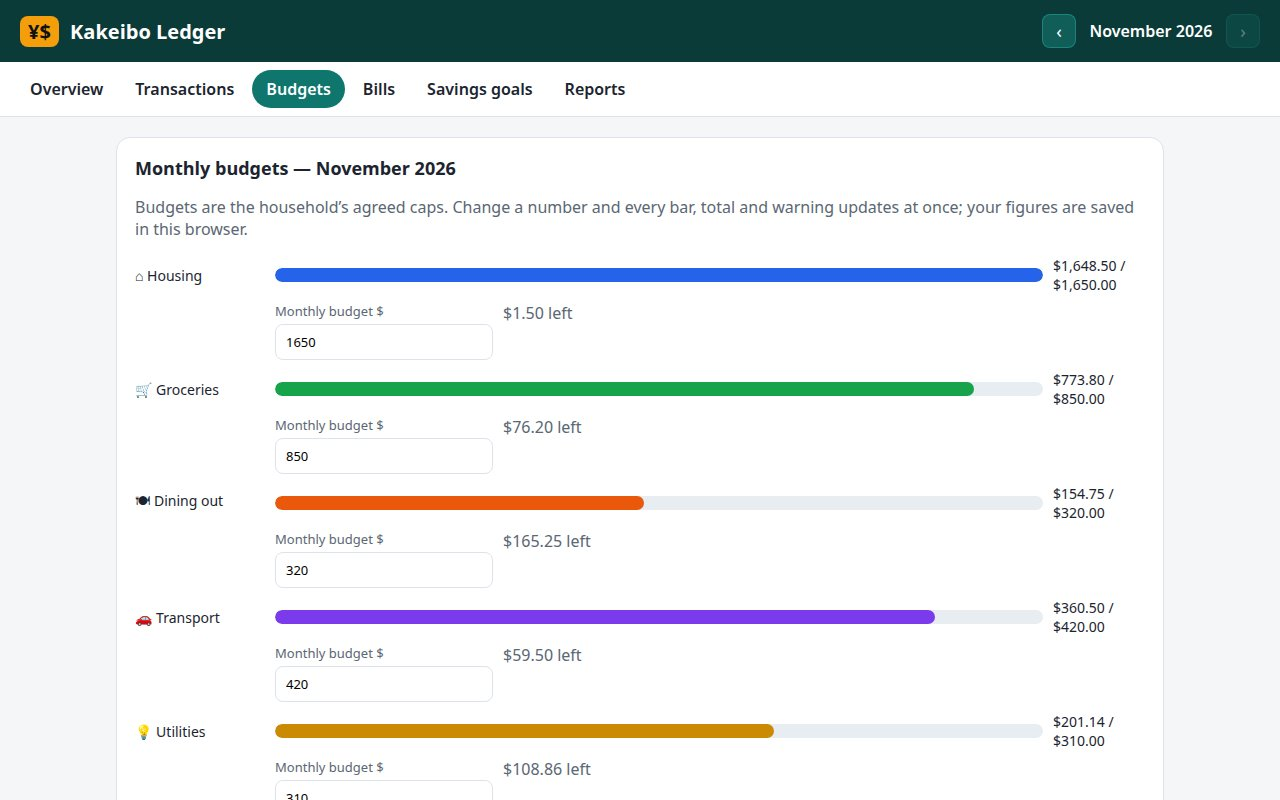
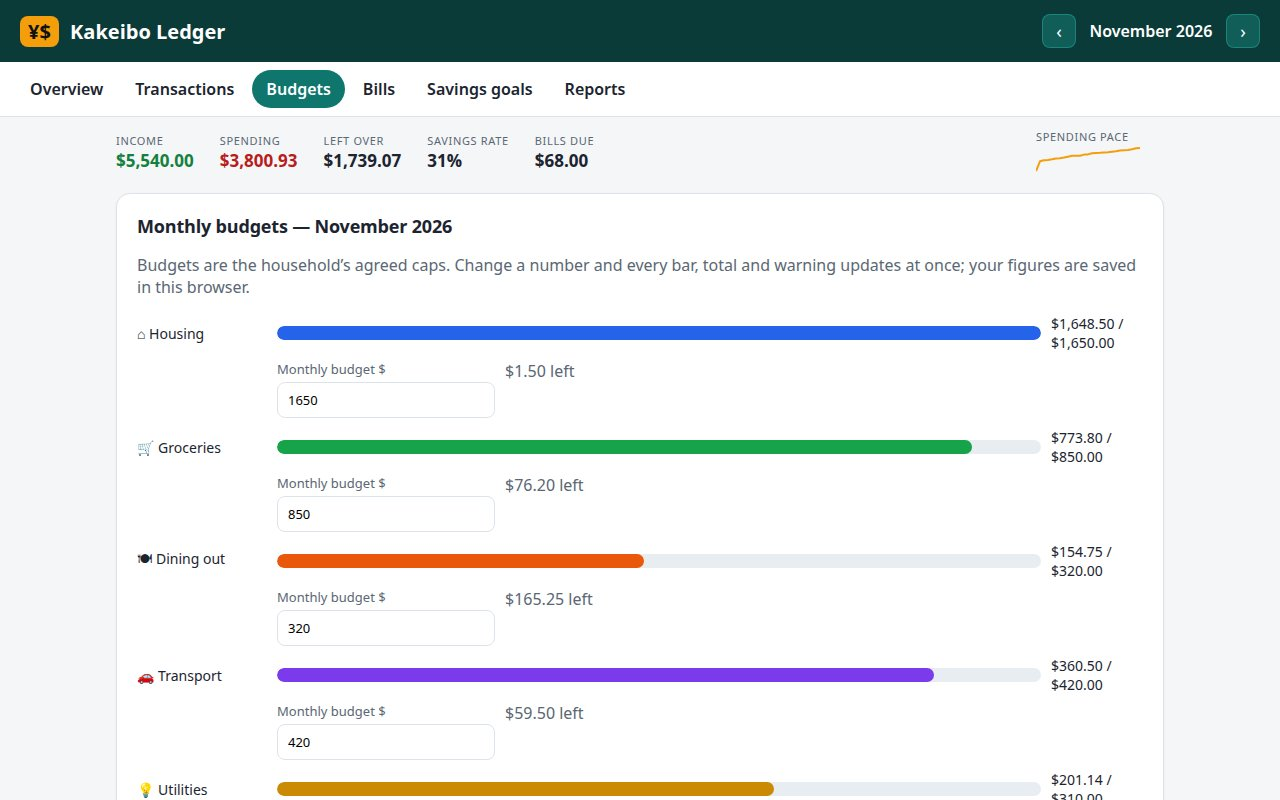
Strengthen Kakeibo Ledger: summary strip with spending-pace sparkline, labelled charts, month-end review panel, projected Dec 2026 / Jan 2027 months, per-month bill state, refreshed screenshots

diff --git a/app/app.js b/app/app.js
@@ -3,12 +3,37 @@
   "use strict";
   var H = window.HOUSEHOLD;
   var catById = {}; H.categories.forEach(function (c) { catById[c.id] = c; });
+  var recordedKeys = Object.keys(H.months).sort();
+  var lastRecorded = recordedKeys[recordedKeys.length - 1];
+  // Build the projected months from the standing monthly pattern, so the
+  // month switcher always has somewhere real to go: each projection is the
+  // recurring entries on their usual days, a weekly grocery run, and any
+  // one-off items the household already expects that month.
+  var projectedKeys = [];
+  function pad2(n) { return (n < 10 ? "0" : "") + n; }
+  function buildProjection(key) {
+    var rows = H.recurring.map(function (r) { return [key + "-" + pad2(r.day), r.description, r.category, r.amount]; });
+    [5, 12, 19, 26].forEach(function (d) { rows.push([key + "-" + pad2(d), "Groceries — GreenMart (weekly, projected)", "groceries", -172.00]); });
+    (H.projectionExtras[key] || []).forEach(function (x) { rows.push(x.slice()); });
+    rows.sort(function (a, b) { return a[0].localeCompare(b[0]); });
+    return rows;
+  }
+  ["2026-12", "2027-01"].forEach(function (key) { if (!H.months[key]) { H.months[key] = buildProjection(key); projectedKeys.push(key); } });
   var monthKeys = Object.keys(H.months).sort();
-  var state = { month: monthKeys[monthKeys.length - 1], added: {}, budgets: JSON.parse(JSON.stringify(H.budgets)), billsPaid: {}, goals: {}, chartMode: "bar", txQuery: "", txCat: "all", txType: "all", txSort: "date-desc" };
-  H.bills.forEach(function (b, i) { state.billsPaid[i] = b.paidNov; });
+  function isProjected(key) { return projectedKeys.indexOf(key) >= 0; }
+  var state = { month: lastRecorded, added: {}, budgets: JSON.parse(JSON.stringify(H.budgets)), billsPaid: {}, goals: {}, chartMode: "bar", txQuery: "", txCat: "all", txType: "all", txSort: "date-desc" };
+  // Bill status is kept per month: settled for the recorded past, the
+  // book's own flags for November, and still-to-pay for projected months.
+  function billPaid(month, i) {
+    var k = month + ":" + i;
+    if (Object.prototype.hasOwnProperty.call(state.billsPaid, k)) return state.billsPaid[k];
+    if (isProjected(month)) return false;
+    if (month === "2026-11") return H.bills[i].paidNov;
+    return true;
+  }
   H.goals.forEach(function (g) { state.goals[g.id] = g.saved; });
-  try { var saved = localStorage.getItem("kakeibo-ledger-v1"); if (saved) { var s = JSON.parse(saved); if (s.added) state.added = s.added; if (s.budgets) state.budgets = s.budgets; if (s.goals) state.goals = s.goals; } } catch (e) {}
-  function persist() { try { localStorage.setItem("kakeibo-ledger-v1", JSON.stringify({ added: state.added, budgets: state.budgets, goals: state.goals })); } catch (e) {} }
+  try { var saved = localStorage.getItem("kakeibo-ledger-v1"); if (saved) { var s = JSON.parse(saved); if (s.added) state.added = s.added; if (s.budgets) state.budgets = s.budgets; if (s.goals) state.goals = s.goals; if (s.billsPaid) state.billsPaid = s.billsPaid; } } catch (e) {}
+  function persist() { try { localStorage.setItem("kakeibo-ledger-v1", JSON.stringify({ added: state.added, budgets: state.budgets, goals: state.goals, billsPaid: state.billsPaid })); } catch (e) {} }
   function txs(month) { return (H.months[month] || []).concat(state.added[month] || []).map(function (t) { return [t[0], t[1], t[2], t[3]]; }); }
   function fmt(n) { var v = Math.abs(n).toFixed(2).replace(/\B(?=(\d{3})+(?!\d))/g, ","); return (n < 0 ? "-$" : "$") + v; }
   function monthName(key) { var names = ["January","February","March","April","May","June","July","August","September","October","November","December"]; var p = key.split("-"); return names[+p[1] - 1] + " " + p[0]; }
@@ -18,20 +43,44 @@
 
   function donutSVG(byCat, total) {
     var cats = Object.keys(byCat).sort(function (a, b) { return byCat[b] - byCat[a]; });
-    var r = 70, c = 2 * Math.PI * r, off = 0, parts = "";
-    cats.forEach(function (id) { var frac = byCat[id] / total; var len = frac * c; parts += '<circle cx="90" cy="90" r="' + r + '" fill="none" stroke="' + catById[id].color + '" stroke-width="26" stroke-dasharray="' + Math.max(len - 2, 0.5) + " " + (c - len) + '" stroke-dashoffset="' + (-off) + '" transform="rotate(-90 90 90)"><title>' + esc(catById[id].label) + ": " + fmt(byCat[id]) + "</title></circle>"; off += len; });
-    return '<svg viewBox="0 0 180 180" width="180" height="180" role="img" aria-label="Spending by category donut chart">' + parts + '<text x="90" y="86" text-anchor="middle" style="font-size:15px;font-weight:700;fill:#1c2430">' + fmt(total) + '</text><text x="90" y="104" text-anchor="middle">spent</text></svg>';
+    var r = 70, c = 2 * Math.PI * r, off = 0, parts = "", labels = "";
+    cats.forEach(function (id) {
+      var frac = byCat[id] / total; var len = frac * c;
+      parts += '<circle cx="90" cy="90" r="' + r + '" fill="none" stroke="' + catById[id].color + '" stroke-width="26" stroke-dasharray="' + Math.max(len - 2, 0.5) + " " + (c - len) + '" stroke-dashoffset="' + (-off) + '" transform="rotate(-90 90 90)"><title>' + esc(catById[id].label) + ": " + fmt(byCat[id]) + " (" + Math.round(frac * 100) + "%)</title></circle>";
+      // Slices wide enough get their percentage printed right on the ring.
+      if (frac >= 0.08) {
+        var ang = ((off + len / 2) / c) * 2 * Math.PI - Math.PI / 2;
+        var lx = 90 + r * Math.cos(ang), ly = 90 + r * Math.sin(ang);
+        labels += '<text x="' + lx.toFixed(1) + '" y="' + (ly + 4).toFixed(1) + '" text-anchor="middle" style="font-size:12px;font-weight:700;fill:#fff">' + Math.round(frac * 100) + "%</text>";
+      }
+      off += len;
+    });
+    return '<svg viewBox="0 0 180 180" width="190" height="190" role="img" aria-label="Spending by category donut chart">' + parts + labels + '<text x="90" y="86" text-anchor="middle" style="font-size:15px;font-weight:700;fill:#1c2430">' + fmt(total) + '</text><text x="90" y="104" text-anchor="middle">spent</text></svg>';
   }
+  function fmtShort(n) { return n >= 1000 ? "$" + (n / 1000).toFixed(1).replace(/\.0$/, "") + "k" : fmt(n); }
   function barsSVG() {
     var rows = monthKeys.map(function (k) { var t = totals(k); return { k: k, inc: t.inc, exp: t.exp }; });
     var max = Math.max.apply(null, rows.map(function (r) { return Math.max(r.inc, r.exp); }));
-    var w = 460, h = 190, bw = 46, gap = (w - 40) / rows.length;
+    var w = 460, h = 196, bw = 46, gap = (w - 40) / rows.length;
     var s = '<svg viewBox="0 0 ' + w + " " + h + '" style="width:100%;max-width:520px" role="img" aria-label="Income versus spending by month">';
+    [0.25, 0.5, 0.75, 1].forEach(function (f) { var y = 150 - 130 * f; s += '<line x1="26" x2="' + (w - 14) + '" y1="' + y + '" y2="' + y + '" stroke="#e8edf2" stroke-width="1"/><text x="22" y="' + (y + 3) + '" text-anchor="end" style="font-size:9px">' + fmtShort(max * f) + "</text>"; });
+    s += '<line x1="26" x2="' + (w - 14) + '" y1="150" y2="150" stroke="#cbd5e1" stroke-width="1"/>';
     rows.forEach(function (r, i) { var x = 30 + i * gap + gap / 2 - bw; var ih = (r.inc / max) * 130, eh = (r.exp / max) * 130;
-      s += '<rect x="' + x + '" y="' + (150 - ih) + '" width="' + (bw / 2 - 2) + '" height="' + ih + '" fill="#059669"><title>Income ' + fmt(r.inc) + "</title></rect>";
-      s += '<rect x="' + (x + bw / 2) + '" y="' + (150 - eh) + '" width="' + (bw / 2 - 2) + '" height="' + eh + '" fill="#dc2626"><title>Spending ' + fmt(r.exp) + "</title></rect>";
-      s += '<text x="' + (x + bw / 2 - 1) + '" y="168" text-anchor="middle">' + monthName(r.k).slice(0, 3) + " " + r.k.slice(2, 4) + "</text>"; });
+      s += '<rect x="' + x + '" y="' + (150 - ih) + '" width="' + (bw / 2 - 2) + '" height="' + ih + '" rx="2" fill="#059669"><title>Income ' + fmt(r.inc) + "</title></rect>";
+      s += '<rect x="' + (x + bw / 2) + '" y="' + (150 - eh) + '" width="' + (bw / 2 - 2) + '" height="' + eh + '" rx="2" fill="#dc2626"><title>Spending ' + fmt(r.exp) + "</title></rect>";
+      s += '<text x="' + (x + bw / 4 - 1) + '" y="' + (142 - ih) + '" text-anchor="middle" style="font-size:10px;font-weight:700;fill:#059669">' + fmtShort(r.inc) + "</text>";
+      s += '<text x="' + (x + bw * 0.75) + '" y="' + (142 - eh) + '" text-anchor="middle" style="font-size:10px;font-weight:700;fill:#dc2626">' + fmtShort(r.exp) + "</text>";
+      s += '<text x="' + (x + bw / 2 - 1) + '" y="168" text-anchor="middle">' + monthName(r.k).slice(0, 3) + " " + r.k.slice(2, 4) + (isProjected(r.k) ? " (proj.)" : "") + "</text>"; });
     return s + "</svg>";
+  }
+  // Cumulative spending across the days of a month, as a small sparkline
+  // for the summary strip: shows how fast the month's money is going out.
+  function sparkSVG(month) {
+    var days = {}, totalOut = 0;
+    txs(month).forEach(function (t) { if (t[3] < 0) { var d = +t[0].slice(8, 10); days[d] = (days[d] || 0) - t[3]; totalOut -= t[3]; } });
+    var max = totalOut || 1, cum = 0, pts = ["0,26"];
+    for (var d = 1; d <= 31; d++) { if (days[d]) { cum += days[d]; pts.push((d * 4) + "," + (26 - (cum / max) * 23).toFixed(1)); } }
+    return '<svg class="spark" viewBox="0 0 128 30" width="128" height="30" role="img" aria-label="Cumulative spending sparkline"><polyline points="' + pts.join(" ") + '" fill="none" stroke="#f59e0b" stroke-width="2" stroke-linejoin="round"/></svg>';
   }
 
   function viewOverview() {
@@ -42,14 +91,15 @@
     var recent = txs(state.month).slice().sort(function (a, b) { return b[0].localeCompare(a[0]); }).slice(0, 6);
     var legend = Object.keys(t.byCat).sort(function (a, b) { return t.byCat[b] - t.byCat[a]; }).map(function (id) { return '<span><i style="background:' + catById[id].color + '"></i>' + catById[id].label + " — " + fmt(t.byCat[id]) + " (" + Math.round(t.byCat[id] / t.exp * 100) + "%)</span>"; }).join("");
     var recentRows = recent.map(function (x) { return "<tr><td>" + x[0].slice(5) + "</td><td>" + esc(x[1]) + '</td><td>' + catById[x[2]].label + '</td><td class="num ' + (x[3] < 0 ? "neg" : "pos") + '">' + fmt(x[3]) + "</td></tr>"; }).join("");
-    return '<div class="cards">'
+    var banner = isProjected(state.month) ? '<div class="notice proj"><strong>' + monthName(state.month) + ' is a projection.</strong> It is built from the household\u2019s standing monthly pattern — rent, salaries, bills, the weekly grocery run — plus one-off items already expected. Mark bills paid on the Bills page as the month unfolds; the figures will firm up into the real book.</div>' : "";
+    return banner + '<div class="cards">'
       + '<div class="card"><h3>Income</h3><div class="big pos">' + fmt(t.inc) + '</div><div class="sub">' + txs(state.month).filter(function (x) { return x[3] >= 0; }).length + ' payments in</div></div>'
       + '<div class="card"><h3>Spending</h3><div class="big neg">' + fmt(t.exp) + '</div><div class="sub">' + diffTxt + '</div></div>'
       + '<div class="card"><h3>Left over</h3><div class="big">' + fmt(t.bal) + '</div><div class="sub">Savings rate ' + rate + '% of income</div></div>'
-      + '<div class="card"><h3>Bills still due</h3><div class="big">' + fmt(H.bills.filter(function (b, i) { return !state.billsPaid[i]; }).reduce(function (a, b) { return a + b.amount; }, 0)) + '</div><div class="sub"><a href="#/bills">See bills</a></div></div></div>'
+      + '<div class="card"><h3>Bills still due</h3><div class="big">' + fmt(H.bills.filter(function (b, i) { return !billPaid(state.month, i); }).reduce(function (a, b) { return a + b.amount; }, 0)) + '</div><div class="sub"><a href="#/bills">See bills</a></div></div></div>'
       + '<div class="grid2"><section class="panel"><h2>Where the money went</h2><div style="display:flex;gap:18px;flex-wrap:wrap;align-items:center">' + donutSVG(t.byCat, t.exp) + '<div class="legend">' + legend + "</div></div></section>"
       + '<section class="panel"><h2>Income vs spending</h2>' + barsSVG() + '<div class="legend"><span><i style="background:#059669"></i>Income</span><span><i style="background:#dc2626"></i>Spending</span></div></section></div>'
-      + '<section class="panel"><h2>Most recent entries</h2><table><thead><tr><th>Date</th><th>Description</th><th>Category</th><th class="num">Amount</th></tr></thead><tbody>' + recentRows + '</tbody></table><p><a href="#/transactions">All transactions →</a> · <a href="#/budgets">Check budgets →</a></p></section>';
+      + '<section class="panel"><h2>Most recent entries</h2><div class="table-wrap"><table><thead><tr><th>Date</th><th>Description</th><th>Category</th><th class="num">Amount</th></tr></thead><tbody>' + recentRows + '</tbody></table></div><p><a href="#/transactions">All transactions →</a> · <a href="#/budgets">Check budgets →</a></p></section>';
   }
 
   function viewTransactions() {
@@ -61,7 +111,7 @@
       + '<label>Amount (use − for spending)<input type="number" id="fAmt" step="0.01" required placeholder="-42.50"></label>'
       + '<label>&nbsp;<button class="btn" type="submit">Add entry</button></label></div>'
       + '<p class="muted">Entries you add are saved in this browser and included in every total, chart and report.</p></form></section>'
-      + '<section class="panel"><h2>Transactions — ' + monthName(state.month) + '</h2><div class="form-row">'
+      + '<section class="panel"><h2>Transactions — ' + monthName(state.month) + (isProjected(state.month) ? ' <span class="muted">(projected)</span>' : "") + '</h2><div class="form-row">'
       + '<label>Search<input type="search" id="txSearch" placeholder="Search descriptions" value="' + esc(state.txQuery) + '"></label>'
       + '<label>Category<select id="txCatSel"><option value="all">All categories</option>' + cats + '</select></label>'
       + '<label>Type<select id="txTypeSel"><option value="all">Income &amp; spending</option><option value="exp">Spending only</option><option value="inc">Income only</option></select></label>'
@@ -80,7 +130,7 @@
     list.sort(sorts[state.txSort]);
     var sum = list.reduce(function (a, t) { return a + t[3]; }, 0);
     var rows = list.map(function (t) { return "<tr><td>" + t[0] + "</td><td>" + esc(t[1]) + "</td><td>" + catById[t[2]].label + '</td><td class="num ' + (t[3] < 0 ? "neg" : "pos") + '">' + fmt(t[3]) + "</td></tr>"; }).join("");
-    el("txTable").innerHTML = list.length ? '<table><thead><tr><th>Date</th><th>Description</th><th>Category</th><th class="num">Amount</th></tr></thead><tbody>' + rows + '</tbody></table><p class="muted">' + list.length + " entries · net " + fmt(sum) + "</p>" : '<p class="muted">No entries match those filters. Clear the search or pick another category.</p>';
+    el("txTable").innerHTML = list.length ? '<div class="table-wrap"><table><thead><tr><th>Date</th><th>Description</th><th>Category</th><th class="num">Amount</th></tr></thead><tbody>' + rows + '</tbody></table></div><p class="muted">' + list.length + " entries · net " + fmt(sum) + "</p>" : '<p class="muted">No entries match those filters. Clear the search or pick another category.</p>';
   }
 
   function viewBudgets() {
@@ -95,9 +145,12 @@
   }
 
   function viewBills() {
-    var rows = H.bills.map(function (b, i) { var paid = state.billsPaid[i]; return "<tr><td>" + esc(b.name) + "</td><td>Due " + b.due + '</td><td class="num">' + fmt(b.amount) + '</td><td><span class="pill ' + (paid ? "paid" : "due") + '">' + (paid ? "Paid" : "Due") + '</span></td><td><button class="btn secondary" data-bill="' + i + '" type="button">' + (paid ? "Mark unpaid" : "Mark paid") + "</button></td></tr>"; }).join("");
-    var dueTotal = H.bills.filter(function (b, i) { return !state.billsPaid[i]; }).reduce(function (a, b) { return a + b.amount; }, 0);
-    return '<section class="panel"><h2>Recurring bills — November 2026</h2><p class="muted">The household\u2019s regular bills for this month. Toggling a bill updates the amount still due everywhere.</p><table><thead><tr><th>Bill</th><th>Due day</th><th class="num">Amount</th><th>Status</th><th></th></tr></thead><tbody>' + rows + '</tbody></table><p><strong>Still due:</strong> ' + fmt(dueTotal) + " · <strong>Paid so far:</strong> " + fmt(H.bills.reduce(function (a, b) { return a + b.amount; }, 0) - dueTotal) + "</p></section>";
+    var rows = H.bills.map(function (b, i) { var paid = billPaid(state.month, i); return "<tr><td>" + esc(b.name) + "</td><td>Due " + b.due + '</td><td class="num">' + fmt(b.amount) + '</td><td><span class="pill ' + (paid ? "paid" : "due") + '">' + (paid ? "Paid" : "Due") + '</span></td><td><button class="btn secondary" data-bill="' + i + '" type="button">' + (paid ? "Mark unpaid" : "Mark paid") + "</button></td></tr>"; }).join("");
+    var dueTotal = H.bills.filter(function (b, i) { return !billPaid(state.month, i); }).reduce(function (a, b) { return a + b.amount; }, 0);
+    var intro = isProjected(state.month)
+      ? "This month has not happened yet, so every bill starts out due. These are the same standing bills that build the month\u2019s projection — tick them off here as they are paid and the amount still due updates everywhere."
+      : "The household\u2019s regular bills for " + monthName(state.month) + ". Toggling a bill updates the amount still due everywhere; each month keeps its own record.";
+    return '<section class="panel"><h2>Recurring bills — ' + monthName(state.month) + '</h2><p class="muted">' + intro + '</p><div class="table-wrap"><table><thead><tr><th>Bill</th><th>Due day</th><th class="num">Amount</th><th>Status</th><th></th></tr></thead><tbody>' + rows + '</tbody></table></div><p><strong>Still due:</strong> ' + fmt(dueTotal) + " · <strong>Paid so far:</strong> " + fmt(H.bills.reduce(function (a, b) { return a + b.amount; }, 0) - dueTotal) + "</p></section>";
   }
 
   function viewGoals() {
@@ -109,12 +162,66 @@
     return '<div class="notice">Across all goals the household has saved <strong>' + fmt(totS) + "</strong> of <strong>" + fmt(totT) + "</strong>. Contributions are saved in this browser.</div>" + cards;
   }
 
+  // The month-end review: the kakeibo ritual of sitting down with the book
+  // and writing out, in plain words, what the month did — where it held,
+  // where it slipped, and what to carry into the next month.
+  function reviewPanel(month) {
+    var t = totals(month);
+    var prevKey = monthKeys[monthKeys.indexOf(month) - 1];
+    var prev = prevKey ? totals(prevKey) : null;
+    var rate = t.inc ? Math.round(t.bal / t.inc * 100) : 0;
+    var headline;
+    if (isProjected(month)) headline = "Looking ahead: on the standing pattern, " + monthName(month) + " should end " + fmt(t.bal) + " ahead — a projected savings rate of " + rate + "%. The review below is written from those projected figures and firms up as real entries replace them.";
+    else if (rate >= 25) headline = monthName(month) + " was a strong month: the household kept " + fmt(t.bal) + " of what came in, a savings rate of " + rate + "%.";
+    else if (rate >= 10) headline = monthName(month) + " was a steady month: " + fmt(t.bal) + " left over, a savings rate of " + rate + "%.";
+    else if (rate >= 0) headline = monthName(month) + " was a tight month: only " + fmt(t.bal) + " left over, a savings rate of " + rate + "%.";
+    else headline = monthName(month) + " ran over: spending passed income by " + fmt(-t.bal) + ". The categories below are where it went.";
+    var notes = [];
+    Object.keys(state.budgets).forEach(function (id) {
+      var spent = t.byCat[id] || 0, cap = state.budgets[id];
+      if (spent > cap) notes.push({ tone: "bad", text: "<strong>" + catById[id].label + "</strong> ran " + fmt(spent - cap) + " over its " + fmt(cap) + " budget (" + fmt(spent) + " spent). First place to look when trimming next month." });
+    });
+    if (prev) {
+      var mover = null, moverDelta = 0;
+      Object.keys(catById).forEach(function (id) { if (id === "income") return; var d = (t.byCat[id] || 0) - (prev.byCat[id] || 0); if (Math.abs(d) > Math.abs(moverDelta)) { moverDelta = d; mover = id; } });
+      if (mover && Math.abs(moverDelta) >= 25) notes.push({ tone: moverDelta > 0 ? "warn" : "good", text: "<strong>" + catById[mover].label + "</strong> moved the most against " + monthName(prevKey) + ": " + (moverDelta > 0 ? "up " : "down ") + fmt(Math.abs(moverDelta)) + " to " + fmt(t.byCat[mover] || 0) + "." });
+    }
+    var best = null, bestSlack = 0;
+    Object.keys(state.budgets).forEach(function (id) { var spent = t.byCat[id] || 0, slack = state.budgets[id] - spent; if (spent > 0 && slack > bestSlack) { bestSlack = slack; best = id; } });
+    if (best) notes.push({ tone: "good", text: "<strong>" + catById[best].label + "</strong> was the most disciplined line: " + fmt(t.byCat[best]) + " spent against a " + fmt(state.budgets[best]) + " budget, leaving " + fmt(bestSlack) + " of headroom." });
+    if (t.bal > 0) {
+      var nearest = null, nearestLeft = Infinity;
+      H.goals.forEach(function (g) { var left = g.target - state.goals[g.id]; if (left > 0 && left < nearestLeft) { nearestLeft = left; nearest = g; } });
+      if (nearest) notes.push({ tone: "good", text: "<strong>Suggested transfer:</strong> move the " + fmt(t.bal) + " left over into savings before the new month starts — it would finish <strong>" + esc(nearest.name) + "</strong> (" + fmt(nearestLeft) + " to go) " + (t.bal >= nearestLeft ? "in one step." : "and leave " + fmt(nearestLeft - t.bal) + " still to find.") });
+    }
+    var items = notes.map(function (n) { return '<li class="verdict ' + n.tone + '">' + n.text + "</li>"; }).join("");
+    return '<section class="panel review"><h2>Month-end review — ' + monthName(month) + (isProjected(month) ? " (projected)" : "") + '</h2><p class="review-head">' + headline + '</p><ul class="verdicts">' + items + "</ul></section>";
+  }
+
   function viewReports() {
-    var monthRows = monthKeys.map(function (k) { var t = totals(k); return "<tr><td>" + monthName(k) + '</td><td class="num pos">' + fmt(t.inc) + '</td><td class="num neg">' + fmt(t.exp) + '</td><td class="num">' + fmt(t.bal) + '</td><td class="num">' + (t.inc ? Math.round(t.bal / t.inc * 100) : 0) + "%</td></tr>"; }).join("");
+    var monthRows = monthKeys.map(function (k) { var t = totals(k); return "<tr><td>" + monthName(k) + (isProjected(k) ? ' <span class="muted">(proj.)</span>' : "") + '</td><td class="num pos">' + fmt(t.inc) + '</td><td class="num neg">' + fmt(t.exp) + '</td><td class="num">' + fmt(t.bal) + '</td><td class="num">' + (t.inc ? Math.round(t.bal / t.inc * 100) : 0) + "%</td></tr>"; }).join("");
     var t = totals(state.month);
     var catRows = Object.keys(t.byCat).sort(function (a, b) { return t.byCat[b] - t.byCat[a]; }).map(function (id) { var cap = state.budgets[id]; return "<tr><td>" + catById[id].label + '</td><td class="num">' + fmt(t.byCat[id]) + '</td><td class="num">' + Math.round(t.byCat[id] / t.exp * 100) + "%</td><td class=\"num\">" + (cap ? fmt(cap) : "—") + '</td><td class="num">' + (cap ? (t.byCat[id] > cap ? '<span class="over">Over by ' + fmt(t.byCat[id] - cap) + "</span>" : "Within budget") : "—") + "</td></tr>"; }).join("");
-    return '<section class="panel"><h2>Month by month</h2><table><thead><tr><th>Month</th><th class="num">Income</th><th class="num">Spending</th><th class="num">Left over</th><th class="num">Savings rate</th></tr></thead><tbody>' + monthRows + '</tbody></table></section>'
-      + '<section class="panel"><h2>Category report — ' + monthName(state.month) + '</h2><table><thead><tr><th>Category</th><th class="num">Spent</th><th class="num">Share</th><th class="num">Budget</th><th class="num">Verdict</th></tr></thead><tbody>' + catRows + '</tbody></table><p class="muted">Household rule from the kakeibo tradition: review every category at month\u2019s end, move what is left over into savings goals before the new month starts.</p></section>';
+    return reviewPanel(state.month)
+      + '<section class="panel"><h2>Month by month</h2><div class="table-wrap"><table><thead><tr><th>Month</th><th class="num">Income</th><th class="num">Spending</th><th class="num">Left over</th><th class="num">Savings rate</th></tr></thead><tbody>' + monthRows + '</tbody></table></div></section>'
+      + '<section class="panel"><h2>Category report — ' + monthName(state.month) + '</h2><div class="table-wrap"><table><thead><tr><th>Category</th><th class="num">Spent</th><th class="num">Share</th><th class="num">Budget</th><th class="num">Verdict</th></tr></thead><tbody>' + catRows + '</tbody></table></div><p class="muted">Household rule from the kakeibo tradition: review every category at month\u2019s end, move what is left over into savings goals before the new month starts.</p></section>';
+  }
+
+  // The summary strip under the header: the selected month at a glance,
+  // whichever section is open — totals, savings rate, bills still due, and
+  // a sparkline of how the month's spending accumulated day by day.
+  function renderStrip() {
+    var t = totals(state.month);
+    var rate = t.inc ? Math.round(t.bal / t.inc * 100) : 0;
+    var due = H.bills.filter(function (b, i) { return !billPaid(state.month, i); }).reduce(function (a, b) { return a + b.amount; }, 0);
+    el("strip").innerHTML =
+      '<span class="strip-item"><em>Income</em><strong class="pos">' + fmt(t.inc) + "</strong></span>"
+      + '<span class="strip-item"><em>Spending</em><strong class="neg">' + fmt(t.exp) + "</strong></span>"
+      + '<span class="strip-item"><em>Left over</em><strong>' + fmt(t.bal) + "</strong></span>"
+      + '<span class="strip-item"><em>Savings rate</em><strong>' + rate + "%</strong></span>"
+      + '<span class="strip-item"><em>Bills due</em><strong>' + fmt(due) + "</strong></span>"
+      + '<span class="strip-spark"><em>Spending pace</em>' + sparkSVG(state.month) + "</span>"
+      + (isProjected(state.month) ? '<span class="strip-tag">Projected month</span>' : "");
   }
 
   var views = { overview: viewOverview, transactions: viewTransactions, budgets: viewBudgets, bills: viewBills, goals: viewGoals, reports: viewReports };
@@ -122,6 +229,7 @@
     var key = (location.hash || "#/").replace("#/", "") || "overview"; if (!views[key]) key = "overview";
     document.querySelectorAll("[data-nav]").forEach(function (a) { a.classList.toggle("active", a.dataset.nav === key); });
     el("monthLabel").textContent = monthName(state.month);
+    renderStrip();
     el("prevMonth").disabled = monthKeys.indexOf(state.month) === 0;
     el("nextMonth").disabled = monthKeys.indexOf(state.month) === monthKeys.length - 1;
     el("view").innerHTML = views[key]();
@@ -150,7 +258,7 @@
     renderTxTable();
   }
   function wireBudgets() { document.querySelectorAll("[data-budget]").forEach(function (inp) { inp.addEventListener("change", function () { var v = parseFloat(inp.value); if (!isNaN(v) && v >= 0) { state.budgets[inp.dataset.budget] = v; persist(); route(); } }); }); }
-  function wireBills() { document.querySelectorAll("[data-bill]").forEach(function (b) { b.addEventListener("click", function () { var i = +b.dataset.bill; state.billsPaid[i] = !state.billsPaid[i]; route(); }); }); }
+  function wireBills() { document.querySelectorAll("[data-bill]").forEach(function (b) { b.addEventListener("click", function () { var i = +b.dataset.bill; state.billsPaid[state.month + ":" + i] = !billPaid(state.month, i); persist(); route(); }); }); }
   function wireGoals() { document.querySelectorAll("[data-goal-add]").forEach(function (b) { b.addEventListener("click", function () { var id = b.dataset.goalAdd; var inp = document.querySelector('[data-goal-amt="' + id + '"]'); var v = parseFloat(inp.value); if (!isNaN(v) && v > 0) { state.goals[id] = Math.min(state.goals[id] + v, H.goals.filter(function (g) { return g.id === id; })[0].target); persist(); route(); } }); }); }
   el("prevMonth").addEventListener("click", function () { var i = monthKeys.indexOf(state.month); if (i > 0) { state.month = monthKeys[i - 1]; route(); } });
   el("nextMonth").addEventListener("click", function () { var i = monthKeys.indexOf(state.month); if (i < monthKeys.length - 1) { state.month = monthKeys[i + 1]; route(); } });

diff --git a/app/style.css b/app/style.css
@@ -7,13 +7,22 @@
 .tabs{display:flex;gap:4px;padding:8px 16px;background:var(--card);border-bottom:1px solid var(--line);overflow-x:auto}
 .tabs a{padding:8px 14px;border-radius:999px;text-decoration:none;color:var(--ink);white-space:nowrap;font-weight:600}
 .tabs a.active{background:var(--accent);color:#fff}
-main{max-width:1080px;margin:0 auto;padding:20px 16px 40px}
+.tabs a:focus-visible,.month-switch button:focus-visible,button.btn:focus-visible{outline:2px solid var(--accent2);outline-offset:2px}
+.strip{display:flex;align-items:center;gap:10px 26px;flex-wrap:wrap;max-width:1080px;margin:0 auto;padding:12px 16px 2px}
+.strip-item{display:flex;flex-direction:column;gap:1px}
+.strip-item em,.strip-spark em{font-style:normal;font-size:11px;text-transform:uppercase;letter-spacing:.06em;color:var(--muted)}
+.strip-item strong{font-size:17px;font-variant-numeric:tabular-nums}
+.strip-spark{display:flex;flex-direction:column;gap:1px;margin-left:auto}
+.strip-tag{background:#fef3c7;color:#92400e;border:1px solid #fcd34d;border-radius:999px;padding:3px 12px;font-size:12px;font-weight:700}
+main{max-width:1080px;margin:0 auto;padding:16px 16px 40px}
 .cards{display:grid;grid-template-columns:repeat(auto-fit,minmax(210px,1fr));gap:14px;margin-bottom:18px}
-.card{background:var(--card);border:1px solid var(--line);border-radius:14px;padding:16px}
+.card{background:var(--card);border:1px solid var(--line);border-radius:14px;padding:18px;box-shadow:0 1px 3px rgba(15,40,50,.06)}
 .card h3{margin:0 0 6px;font-size:13px;text-transform:uppercase;letter-spacing:.06em;color:var(--muted)}
-.card .big{font-size:28px;font-weight:800}.card .sub{color:var(--muted);font-size:13px;margin-top:4px}
-.panel{background:var(--card);border:1px solid var(--line);border-radius:14px;padding:18px;margin-bottom:18px}
-.panel h2{margin:0 0 12px;font-size:18px}
+.card .big{font-size:29px;font-weight:800;letter-spacing:-.01em}.card .sub{color:var(--muted);font-size:13px;margin-top:4px;line-height:1.45}
+.panel{background:var(--card);border:1px solid var(--line);border-radius:14px;padding:20px;margin-bottom:18px;box-shadow:0 1px 3px rgba(15,40,50,.06)}
+.panel h2{margin:0 0 12px;font-size:18px;letter-spacing:-.01em}
+.table-wrap{overflow-x:auto;-webkit-overflow-scrolling:touch}
+tbody tr:hover{background:#f8fafc}
 .grid2{display:grid;grid-template-columns:1fr 1fr;gap:18px}@media(max-width:760px){.grid2{grid-template-columns:1fr}}
 table{width:100%;border-collapse:collapse;font-size:14px}th,td{padding:8px 6px;border-bottom:1px solid var(--line);text-align:left}td.num,th.num{text-align:right;font-variant-numeric:tabular-nums}
 .neg{color:var(--bad)}.pos{color:var(--good)}
@@ -31,3 +40,20 @@ button.btn.secondary{background:#e8edf2;color:var(--ink)}button.btn:disabled{opa
 .foot{max-width:1080px;margin:0 auto;padding:0 16px 28px;color:var(--muted);font-size:13px}
 svg text{font-size:11px;fill:var(--muted)}
 .notice{background:#ecfdf5;border:1px solid #a7f3d0;border-radius:10px;padding:10px 14px;margin-bottom:14px;font-size:14px}
+.notice.proj{background:#fffbeb;border-color:#fcd34d;line-height:1.5}
+.review{border-top:4px solid var(--accent)}
+.review-head{font-size:15px;line-height:1.55;margin:0 0 10px}
+.verdicts{list-style:none;margin:0;padding:0;display:grid;gap:8px}
+.verdict{border-left:4px solid var(--line);background:#f8fafc;border-radius:0 8px 8px 0;padding:9px 12px;font-size:14px;line-height:1.5}
+.verdict.good{border-left-color:var(--good)}
+.verdict.warn{border-left-color:var(--warn)}
+.verdict.bad{border-left-color:var(--bad)}
+@media(max-width:560px){
+  #monthLabel{min-width:104px;font-size:14px}
+  .brand{font-size:18px}
+  .strip{gap:8px 18px}
+  .strip-spark{margin-left:0}
+  .cards{grid-template-columns:1fr 1fr}
+  .card .big{font-size:23px}
+  .panel{padding:16px}
+}

diff --git a/app/data.js b/app/data.js
@@ -67,6 +67,39 @@ window.HOUSEHOLD = {
       ["2026-11-26", "Gift — grandma's birthday", "shopping", -45.00]
     ]
   },
+  // Standing monthly pattern: the entries that arrive every month, used to
+  // project future months (December 2026, January 2027) so the book never
+  // runs into an empty page. Amounts marked "(estimate)" are the household's
+  // best guess for bills that vary month to month.
+  recurring: [
+    { day: 1, description: "Rent — Maple Street apartment", category: "housing", amount: -1600 },
+    { day: 1, description: "Salary — Alex (Northwind Studio)", category: "income", amount: 3850 },
+    { day: 3, description: "Home insurance — monthly", category: "housing", amount: -48.50 },
+    { day: 4, description: "Electric bill — City Power (estimate)", category: "utilities", amount: -112.00 },
+    { day: 7, description: "Fuel — Route 9 petrol station", category: "transport", amount: -60.00 },
+    { day: 9, description: "Piano lesson — Mia", category: "kids", amount: -140.00 },
+    { day: 10, description: "Salary — Jordan (part-time, library)", category: "income", amount: 1240 },
+    { day: 11, description: "Streaming — Filmhouse family plan", category: "fun", amount: -17.99 },
+    { day: 17, description: "Internet — Fibreline 300", category: "utilities", amount: -54.99 },
+    { day: 23, description: "Water bill — City Water (estimate)", category: "utilities", amount: -43.00 },
+    { day: 24, description: "Bus passes — monthly x2", category: "transport", amount: -110.00 },
+    { day: 28, description: "Mobile phones x2", category: "utilities", amount: -68.00 }
+  ],
+  // One-off items the household already expects in a projected month,
+  // on top of the standing pattern and the weekly grocery run.
+  projectionExtras: {
+    "2026-12": [
+      ["2026-12-13", "Pharmacy — prescriptions", "health", -44.20],
+      ["2026-12-15", "Holiday gifts — family & teachers", "shopping", -186.00],
+      ["2026-12-19", "Dinner — Sakura Ramen (solstice treat)", "dining", -71.50],
+      ["2026-12-22", "Holiday groceries — GreenMart big shop", "groceries", -228.60],
+      ["2026-12-29", "Cinema — holiday matinee", "fun", -48.00]
+    ],
+    "2027-01": [
+      ["2027-01-06", "School supplies — new term", "kids", -57.80],
+      ["2027-01-16", "Dentist — Alex check-up", "health", -95.00]
+    ]
+  },
   bills: [
     { name: "Rent — Maple Street apartment", amount: 1600, due: "1st", paidNov: true },
     { name: "Electric — City Power", amount: 104.80, due: "4th", paidNov: true },

diff --git a/main.ts b/main.ts
@@ -1,11 +1,11 @@
-// Entry point for the Kakeibo Ledger make.fun submission.
+// Kakeibo Ledger — the program that hands the entry in.
 //
-// Running this file assembles the deliverable in one place: it mirrors the
-// static site (everything under app/) and the captured screenshots into the
-// output directory, then asks the vendored make.fun frontend helper to
-// summarise that directory into a dossier.json manifest. The grader reads
-// the manifest to see what the entry contains, so the copy has to be a
-// faithful, complete replica of the two source folders.
+// One run does the whole handover: the static site under app/ and the
+// screenshots beside it are copied across to the output directory, and the
+// vendored make.fun frontend helper then reads that directory back and
+// writes its summary as dossier.json. That manifest is how the grader
+// inventories the entry, which is why the copy step has to reproduce both
+// folders exactly — nothing dropped, nothing renamed.
 //
 // The destination is the MAKEFUN_OUTPUT_DIR environment variable when set,
 // falling back to /output, which is where the grading environment expects
@@ -44,9 +44,9 @@ mkdirSync(join(targetDir, 'screenshots'), { recursive: true });
 mirrorIntoOutput('app');
 mirrorIntoOutput('screenshots');
 
-// Describe the assembled output and store the manifest next to the copied
-// files. The limits below cap how much text, imagery, and app payload the
-// dossier is allowed to account for.
+// Last step: summarise what was assembled and drop the manifest in beside
+// the copied files. The limits passed here bound how much text, imagery,
+// and app payload the dossier will account for.
 const manifest = buildDossier(targetDir, {
   text_max_bytes: 163840,
   screenshots: { max: 4, max_bytes: 262144 },

diff --git a/app/index.html b/app/index.html
@@ -23,6 +23,7 @@
   <a href="#/goals" data-nav="goals">Savings goals</a>
   <a href="#/reports" data-nav="reports">Reports</a>
 </nav>
+<div class="strip" id="strip" aria-label="Month summary"></div>
 <main id="view" tabindex="-1"></main>
 <footer class="foot">
   <p>Kakeibo Ledger — a household budget book for <span id="footHousehold"></span>. All figures are stored in this site's own files; nothing leaves your device. Amounts in USD.</p>

diff --git a/README.md b/README.md
@@ -4,7 +4,7 @@
 [![rank](https://make.fun/badge/best-household-budget-site-20261126-1457/tachyon0215/muse-household-entry/rank.svg)](https://make.fun/bounty/best-household-budget-site-20261126-1457/leaderboard?utm_source=github&utm_medium=readme&utm_campaign=best-household-budget-site-20261126-1457)
 [![reward](https://make.fun/badge/best-household-budget-site-20261126-1457/tachyon0215/muse-household-entry/reward.svg)](https://make.fun/bounty/best-household-budget-site-20261126-1457?utm_source=github&utm_medium=readme&utm_campaign=best-household-budget-site-20261126-1457)
 
-**Kakeibo Ledger** — a household budget site for a family of four, in the kakeibo (Japanese household account book) tradition of reviewing every category at month's end. One offline site with six linked sections: an overview dashboard (income, spending, what's left, savings rate, a spending donut and an income-vs-spending chart), a transactions book (search, category/type filters, sorting, CSV download, and an add-entry form whose entries flow into every total), monthly budgets you can edit in place with over-budget warnings, a recurring-bills board with paid/due toggles, savings goals you can contribute to, and month-by-month reports with per-category verdicts. It ships with two full months of realistic figures (October and November 2026: November income $5,540.00, spending $3,800.93). Static files only, no build step, no network requests; works on desktop and phone. Entries you add are kept in your browser's local storage.
+**Kakeibo Ledger** — a household budget site for a family of four, in the kakeibo (Japanese household account book) tradition of reviewing every category at month's end. One offline site with six linked sections: an overview dashboard (income, spending, what's left, savings rate, a spending donut with percentages printed on the ring and an income-vs-spending chart with labelled bars), a transactions book (search, category/type filters, sorting, CSV download, and an add-entry form whose entries flow into every total), monthly budgets you can edit in place with over-budget warnings, a recurring-bills board with paid/due toggles kept separately for each month, savings goals you can contribute to, and reports headed by a written month-end review — what held, what slipped, the biggest mover against last month, and a suggested transfer into savings. A summary strip under the header keeps the open month's totals and a spending-pace sparkline on every page. The book never runs into an empty month: past November 2026 it projects December 2026 and January 2027 from the household's standing pattern (rent, salaries, bills, the weekly grocery run, expected one-offs), clearly labelled as projections that firm up as bills are marked paid. It ships with two full months of realistic figures (October and November 2026: November income $5,540.00, spending $3,800.93). Static files only, no build step, no network requests; works on desktop and phone. Entries you add are kept in your browser's local storage.
 
 ## Run it
 
